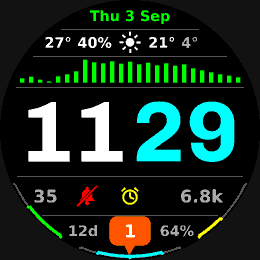
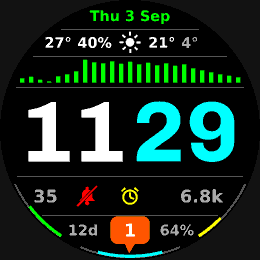
dashboard: clock/arc/badge tweaks from watch feedback
1. 12-hour mode centres the whole H MM block again (24-hour keeps the gap on
   the centre line); a one-digit hour no longer floats left.
2. Drop the rounded arc ends -- the end-cap discs overflowed the stroke and
   looked like drumsticks. Flat ends, and Arcs.mc no longer needs Toybox.Math.
3. Notification badge shrunk 5% (top still pinned 1 px below the separator).

preview.py mirrors all three.

diff --git a/dashboard/tools/preview.py b/dashboard/tools/preview.py
@@ -85,6 +85,7 @@ SAMPLE = {
     "graph_is_percentage": False,
     "hours": "11",
     "minutes": "29",
+    "clock_24h": True,     # True: gap on the centre line. False: block centred.
     "hour_color": None,    # None -> Theme default (white); or a T[...] key
     "minute_color": None,  # None -> Theme default (cyan)
     "body_battery": 35,
@@ -270,12 +271,7 @@ class Face:
         self.d.arc(box, start=a, end=b, fill=color, width=max(1, int(width * self.s)))
 
     def stroke_arc(self, x, y, r, color, garmin_start, garmin_end, width):
-        """An arc with rounded ends (Dc.drawArc has no cap style, so drop a disc
-        the width of the stroke on each end)."""
         self.arc(x, y, r, color, garmin_start, garmin_end, width)
-        for deg in (garmin_start, garmin_end):
-            a = math.radians(deg)
-            self.circle(x + r * math.cos(a), y - r * math.sin(a), width / 2.0, color)
 
     def text(self, x, y, px, string, color, align="left", valign="middle", family="ui"):
         f = font(px, family)
@@ -358,10 +354,20 @@ class Face:
         hours, minutes = SAMPLE["hours"], SAMPLE["minutes"]
         hcol = TEXT_DIM if dim else (rgb(T[SAMPLE["hour_color"]]) if SAMPLE["hour_color"] else HOURS)
         mcol = TEXT_DIM if dim else (rgb(T[SAMPLE["minute_color"]]) if SAMPLE["minute_color"] else MINUTES)
-        half_gap = self.w * 0.010
+        gap = self.w * 0.020
         y = TIME_Y * self.h + offset_y
-        self.text(self.cx - half_gap, y, self.clock_font, hours, hcol, align="right", family="clock")
-        self.text(self.cx + half_gap, y, self.clock_font, minutes, mcol, align="left", family="clock")
+
+        hours_right = self.cx - gap / 2.0
+        minutes_left = self.cx + gap / 2.0
+        if not SAMPLE["clock_24h"]:
+            hw = self.text_width(hours, self.clock_font, "clock")
+            mw = self.text_width(minutes, self.clock_font, "clock")
+            left = self.cx - (hw + gap + mw) / 2.0
+            hours_right = left + hw
+            minutes_left = left + hw + gap
+
+        self.text(hours_right, y, self.clock_font, hours, hcol, align="right", family="clock")
+        self.text(minutes_left, y, self.clock_font, minutes, mcol, align="left", family="clock")
 
     def draw_status_row(self):
         y = STATUS_Y * self.h
@@ -378,7 +384,7 @@ class Face:
         # grow it to fill between the separator above and the arc below, 1 px clear.
         top = SEP_5_Y * self.h + 1
         bottom = self.cy + self.radius - ARC_EDGE_INSET - ARC_FILL_PEN - 1
-        radius = (bottom - top) / Icons.NOTIFICATION_SPAN
+        radius = (bottom - top) / Icons.NOTIFICATION_SPAN * 0.95
         y = top + radius * 0.75
 
         count = SAMPLE["notifications"]
